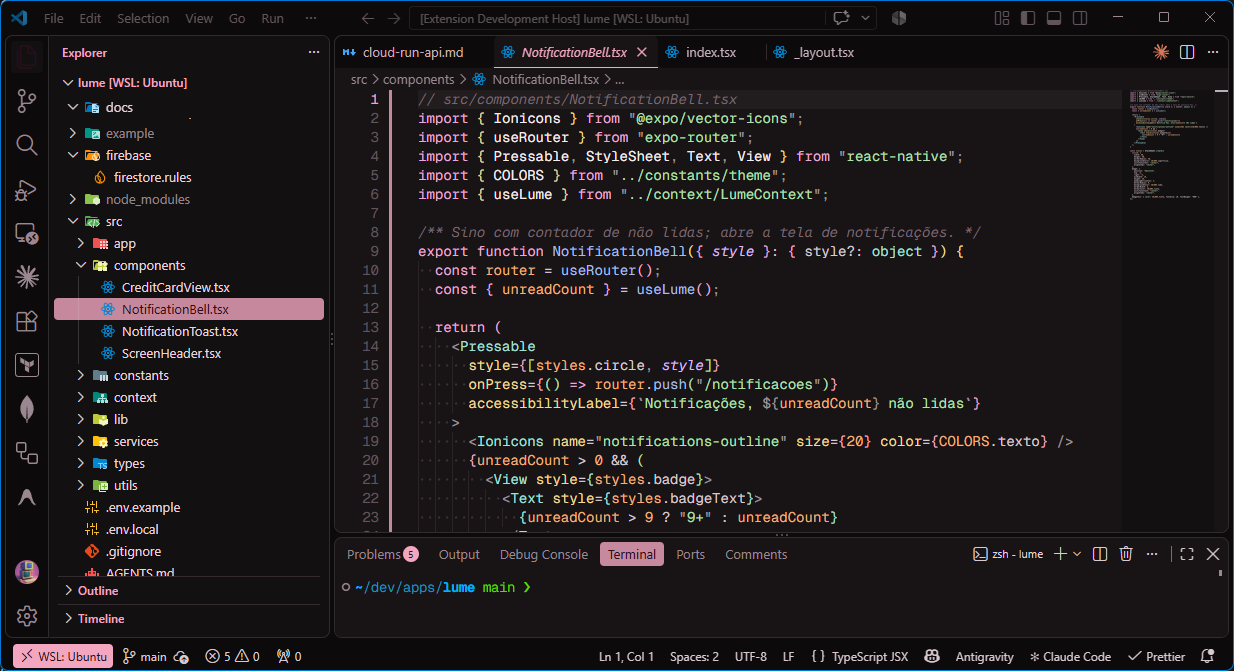
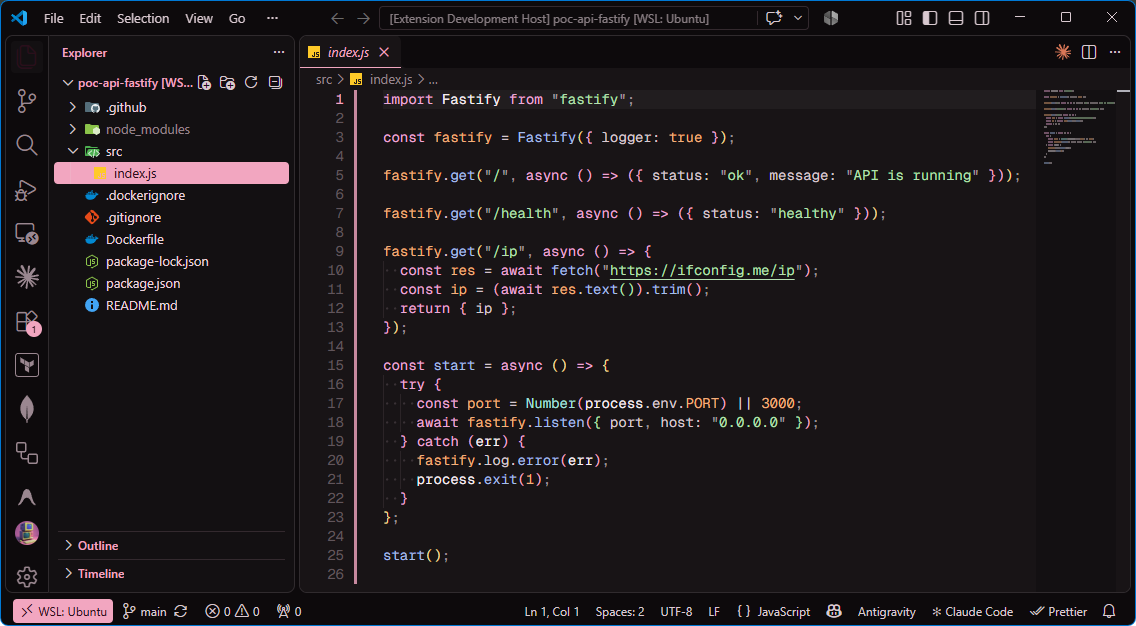
Refactor code structure for improved readability and maintainability

diff --git a/README.md b/README.md
@@ -25,6 +25,10 @@ Temas escuros para VS Code inspirados na interface de **Cyberpunk 2077**.
 
 ![HX99 Night City Cherry](prints/hx99-cherry.png)
 
+**Night City Noir**
+
+![HX99 Night City Cherry](prints/hx99-noir.png)
+
 ## O que muda
 
 - **Explorer estilo "inbox":** o item selecionado vira uma barra sólida na cor de destaque, com texto escuro; os demais ficam em verde-água (menta no Mint, rosa no Cherry) sobre fundo escuro.
